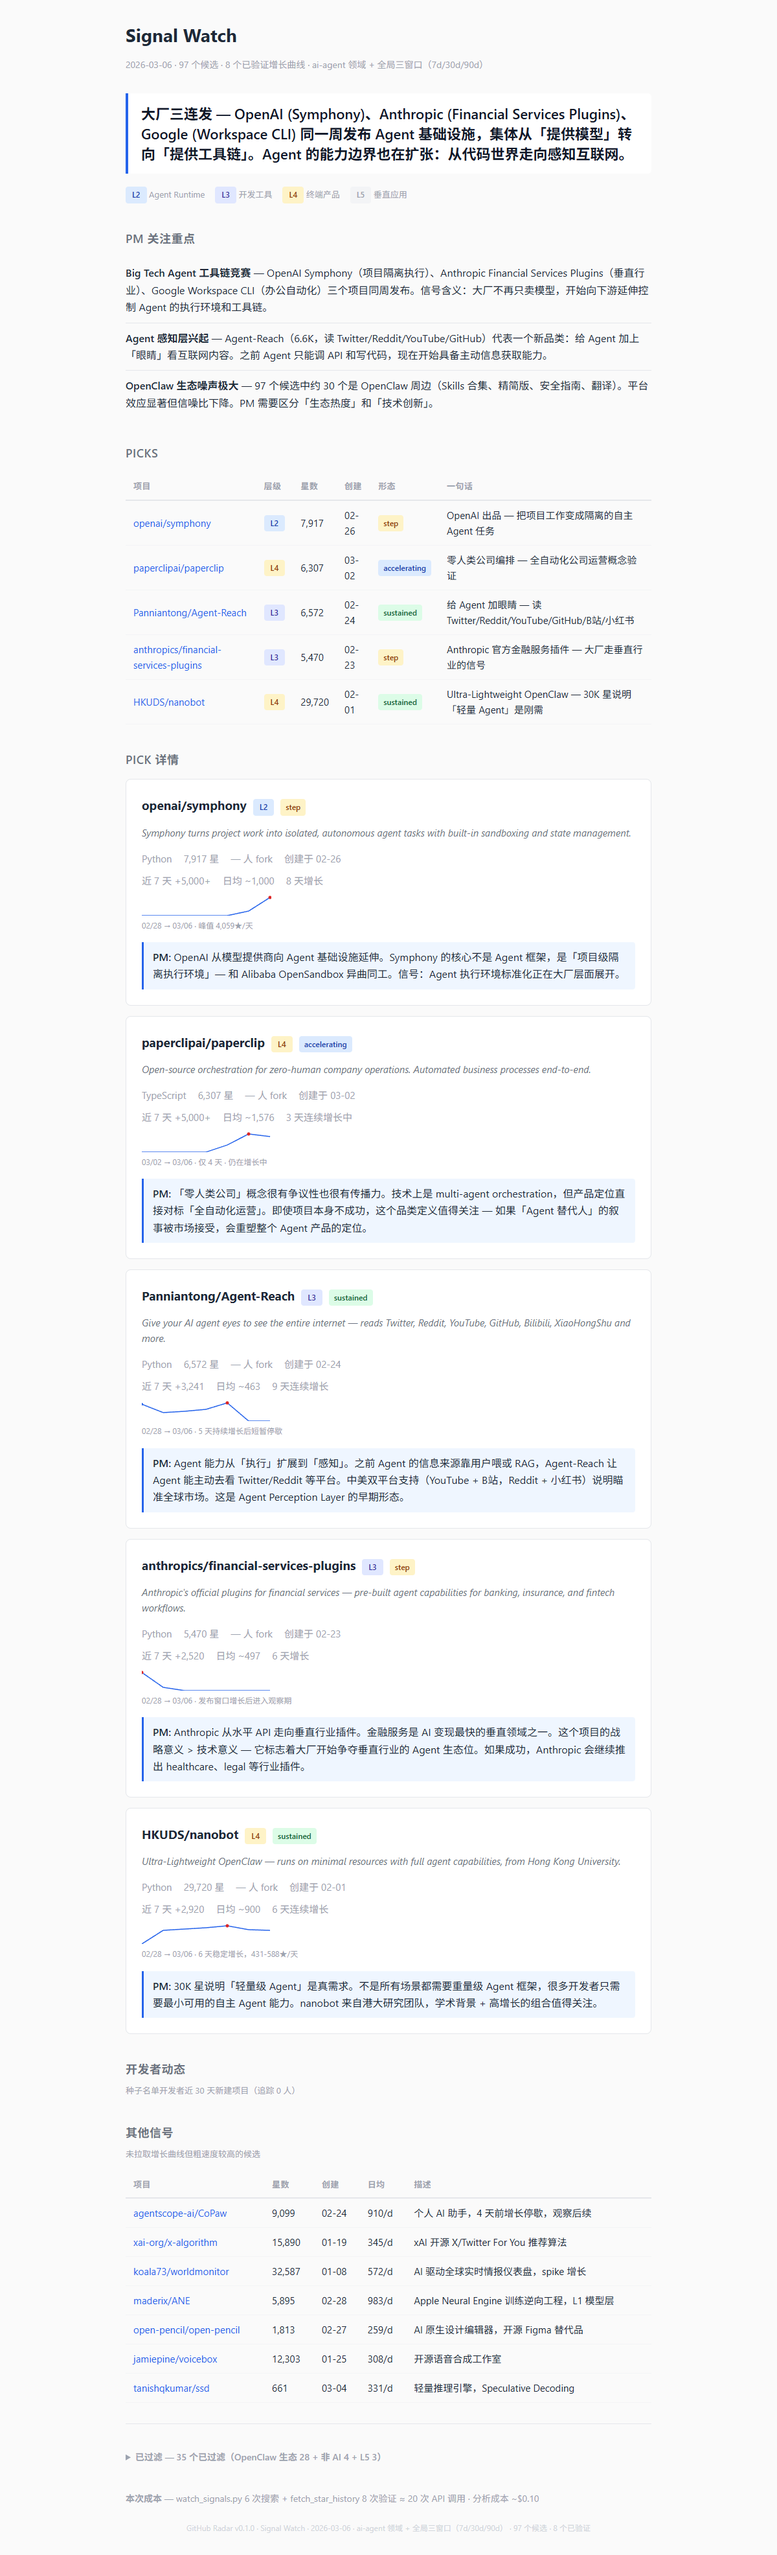
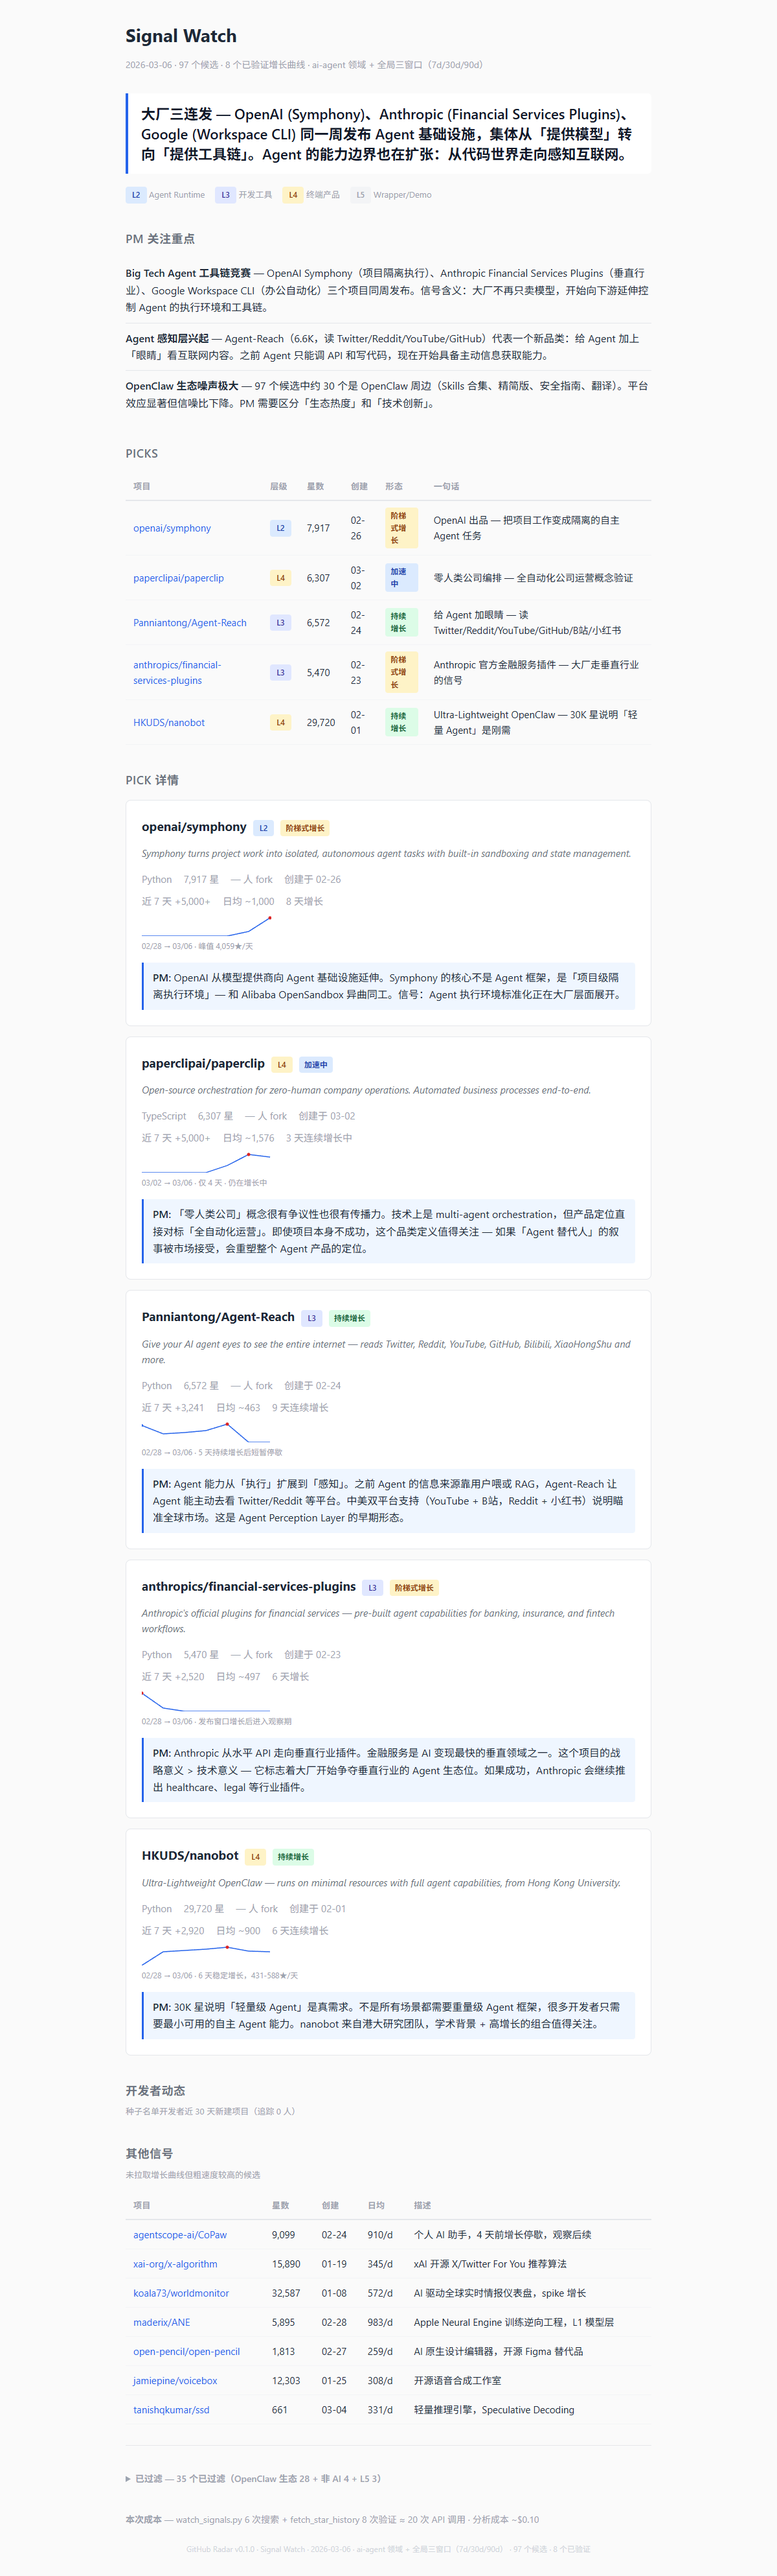
Translate English labels to Chinese in CN reports
Add LABEL_CN mapping in generate_report.py preprocess_data().
Affects: pattern_label (sustained→持续增长, accelerating→加速中, etc.)
and signal tags (google-official→Google 官方, etc.)
Regenerated CN example reports and screenshots.

diff --git a/docs/examples/cn/signal-watch.html b/docs/examples/cn/signal-watch.html
@@ -92,7 +92,7 @@
   <span><span class="badge badge-l2">L2</span> Agent Runtime</span>
   <span><span class="badge badge-l3">L3</span> 开发工具</span>
   <span><span class="badge badge-l4">L4</span> 终端产品</span>
-  <span><span class="badge badge-l5">L5</span> 垂直应用</span>
+  <span><span class="badge badge-l5">L5</span> Wrapper/Demo</span>
 </div>
 
 <h2>PM 关注重点</h2>
@@ -121,7 +121,7 @@
       <td><span class="badge badge-l2">L2</span></td>
       <td class="stars">7,917</td>
       <td>02-26</td>
-      <td><span class="signal-tag tag-step">step</span></td>
+      <td><span class="signal-tag tag-step">阶梯式增长</span></td>
       <td>OpenAI 出品 — 把项目工作变成隔离的自主 Agent 任务</td>
     </tr>
   
@@ -131,7 +131,7 @@
       <td><span class="badge badge-l4">L4</span></td>
       <td class="stars">6,307</td>
       <td>03-02</td>
-      <td><span class="signal-tag tag-accelerating">accelerating</span></td>
+      <td><span class="signal-tag tag-accelerating">加速中</span></td>
       <td>零人类公司编排 — 全自动化公司运营概念验证</td>
     </tr>
   
@@ -141,7 +141,7 @@
       <td><span class="badge badge-l3">L3</span></td>
       <td class="stars">6,572</td>
       <td>02-24</td>
-      <td><span class="signal-tag tag-sustained">sustained</span></td>
+      <td><span class="signal-tag tag-sustained">持续增长</span></td>
       <td>给 Agent 加眼睛 — 读 Twitter/Reddit/YouTube/GitHub/B站/小红书</td>
     </tr>
   
@@ -151,7 +151,7 @@
       <td><span class="badge badge-l3">L3</span></td>
       <td class="stars">5,470</td>
       <td>02-23</td>
-      <td><span class="signal-tag tag-step">step</span></td>
+      <td><span class="signal-tag tag-step">阶梯式增长</span></td>
       <td>Anthropic 官方金融服务插件 — 大厂走垂直行业的信号</td>
     </tr>
   
@@ -161,7 +161,7 @@
       <td><span class="badge badge-l4">L4</span></td>
       <td class="stars">29,720</td>
       <td>02-01</td>
-      <td><span class="signal-tag tag-sustained">sustained</span></td>
+      <td><span class="signal-tag tag-sustained">持续增长</span></td>
       <td>Ultra-Lightweight OpenClaw — 30K 星说明「轻量 Agent」是刚需</td>
     </tr>
   
@@ -175,7 +175,7 @@
   <div class="card-header">
     <h3><a href="https://github.com/openai/symphony">openai/symphony</a></h3>
     <span class="badge badge-l2">L2</span>
-    <span class="signal-tag tag-step">step</span>
+    <span class="signal-tag tag-step">阶梯式增长</span>
   </div>
   <p class="card-desc">Symphony turns project work into isolated, autonomous agent tasks with built-in sandboxing and state management.</p>
   <div class="card-meta">
@@ -204,7 +204,7 @@
   <div class="card-header">
     <h3><a href="https://github.com/paperclipai/paperclip">paperclipai/paperclip</a></h3>
     <span class="badge badge-l4">L4</span>
-    <span class="signal-tag tag-accelerating">accelerating</span>
+    <span class="signal-tag tag-accelerating">加速中</span>
   </div>
   <p class="card-desc">Open-source orchestration for zero-human company operations. Automated business processes end-to-end.</p>
   <div class="card-meta">
@@ -233,7 +233,7 @@
   <div class="card-header">
     <h3><a href="https://github.com/Panniantong/Agent-Reach">Panniantong/Agent-Reach</a></h3>
     <span class="badge badge-l3">L3</span>
-    <span class="signal-tag tag-sustained">sustained</span>
+    <span class="signal-tag tag-sustained">持续增长</span>
   </div>
   <p class="card-desc">Give your AI agent eyes to see the entire internet — reads Twitter, Reddit, YouTube, GitHub, Bilibili, XiaoHongShu and more.</p>
   <div class="card-meta">
@@ -262,7 +262,7 @@
   <div class="card-header">
     <h3><a href="https://github.com/anthropics/financial-services-plugins">anthropics/financial-services-plugins</a></h3>
     <span class="badge badge-l3">L3</span>
-    <span class="signal-tag tag-step">step</span>
+    <span class="signal-tag tag-step">阶梯式增长</span>
   </div>
   <p class="card-desc">Anthropic's official plugins for financial services — pre-built agent capabilities for banking, insurance, and fintech workflows.</p>
   <div class="card-meta">
@@ -291,7 +291,7 @@
   <div class="card-header">
     <h3><a href="https://github.com/HKUDS/nanobot">HKUDS/nanobot</a></h3>
     <span class="badge badge-l4">L4</span>
-    <span class="signal-tag tag-sustained">sustained</span>
+    <span class="signal-tag tag-sustained">持续增长</span>
   </div>
   <p class="card-desc">Ultra-Lightweight OpenClaw — runs on minimal resources with full agent capabilities, from Hong Kong University.</p>
   <div class="card-meta">

diff --git a/docs/examples/cn/radar-pulse.html b/docs/examples/cn/radar-pulse.html
@@ -88,7 +88,7 @@
   <div class="card-header">
     <h3><a href="https://github.com/alibaba/OpenSandbox">alibaba/OpenSandbox</a></h3>
     <span class="badge badge-l2">L2</span>
-    <span class="signal-tag">sustained</span><span class="signal-tag">accelerating</span>
+    <span class="signal-tag">持续增长</span><span class="signal-tag">加速中</span>
   </div>
   <p class="card-desc">通用 Agent 沙箱平台，支持多语言 SDK、统一沙箱 API、Docker/K8s 运行时，覆盖 Coding Agent、GUI Agent、Agent 评估、AI 代码执行、RL 训练等场景。</p>
   <table class="metric-table">
@@ -107,7 +107,7 @@
   <div class="card-header">
     <h3><a href="https://github.com/googleworkspace/cli">googleworkspace/cli</a></h3>
     <span class="badge badge-l4">L4</span>
-    <span class="signal-tag">step</span><span class="signal-tag">google-official</span>
+    <span class="signal-tag">阶梯式增长</span><span class="signal-tag">Google 官方</span>
   </div>
   <p class="card-desc">Google Workspace 统一 CLI — 一个命令行工具管理 Drive、Gmail、Calendar、Sheets、Docs、Chat、Admin 等。动态构建自 Google Discovery Service，内含 AI Agent Skills。</p>
   <table class="metric-table">

diff --git a/scripts/generate_report.py b/scripts/generate_report.py
@@ -56,13 +56,30 @@ def load_template(mode, lang="en"):
         return f.read()
 
 
-def preprocess_data(data):
+LABEL_CN = {
+    "sustained": "持续增长", "accelerating": "加速中",
+    "spike": "爆发", "step": "阶梯式增长", "spike+decay": "冲高回落",
+    "market-leader": "市场领先", "established": "成熟项目",
+    "google-official": "Google 官方", "openai-official": "OpenAI 官方",
+    "anthropic-official": "Anthropic 官方", "meta-official": "Meta 官方",
+}
+
+
+def preprocess_data(data, lang="en"):
     """Preprocess data: flatten nested list fields into _html strings to avoid template nesting"""
     for pick in data.get("picks", []):
         signals = pick.get("signals", [])
+        if lang == "cn":
+            signals = [LABEL_CN.get(s, s) for s in signals]
+            if pick.get("pattern_label"):
+                pick["pattern_label"] = LABEL_CN.get(pick["pattern_label"], pick["pattern_label"])
         pick["signals_html"] = "".join(
             f'<span class="signal-tag">{s}</span>' for s in signals
         )
+    if lang == "cn":
+        for detail in data.get("pick_details", []):
+            if detail.get("pattern_label"):
+                detail["pattern_label"] = LABEL_CN.get(detail["pattern_label"], detail["pattern_label"])
     return data
 
 
@@ -260,7 +277,7 @@ def main():
         data = json.load(f)
 
     # Preprocess: flatten nested data
-    data = preprocess_data(data)
+    data = preprocess_data(data, args.lang)
 
     # HTML
     template = load_template(args.mode, args.lang)
